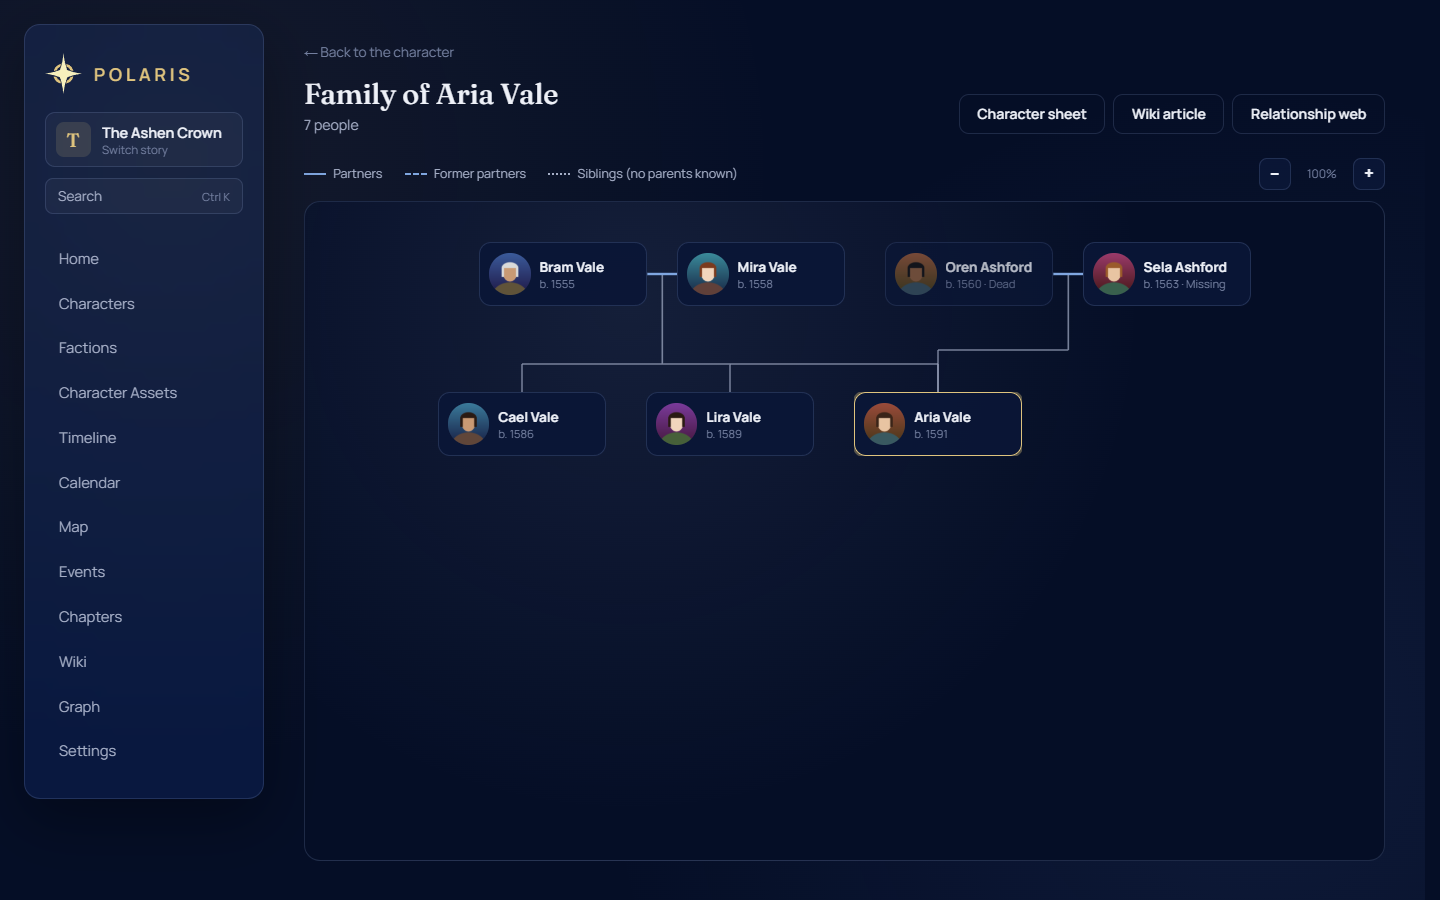
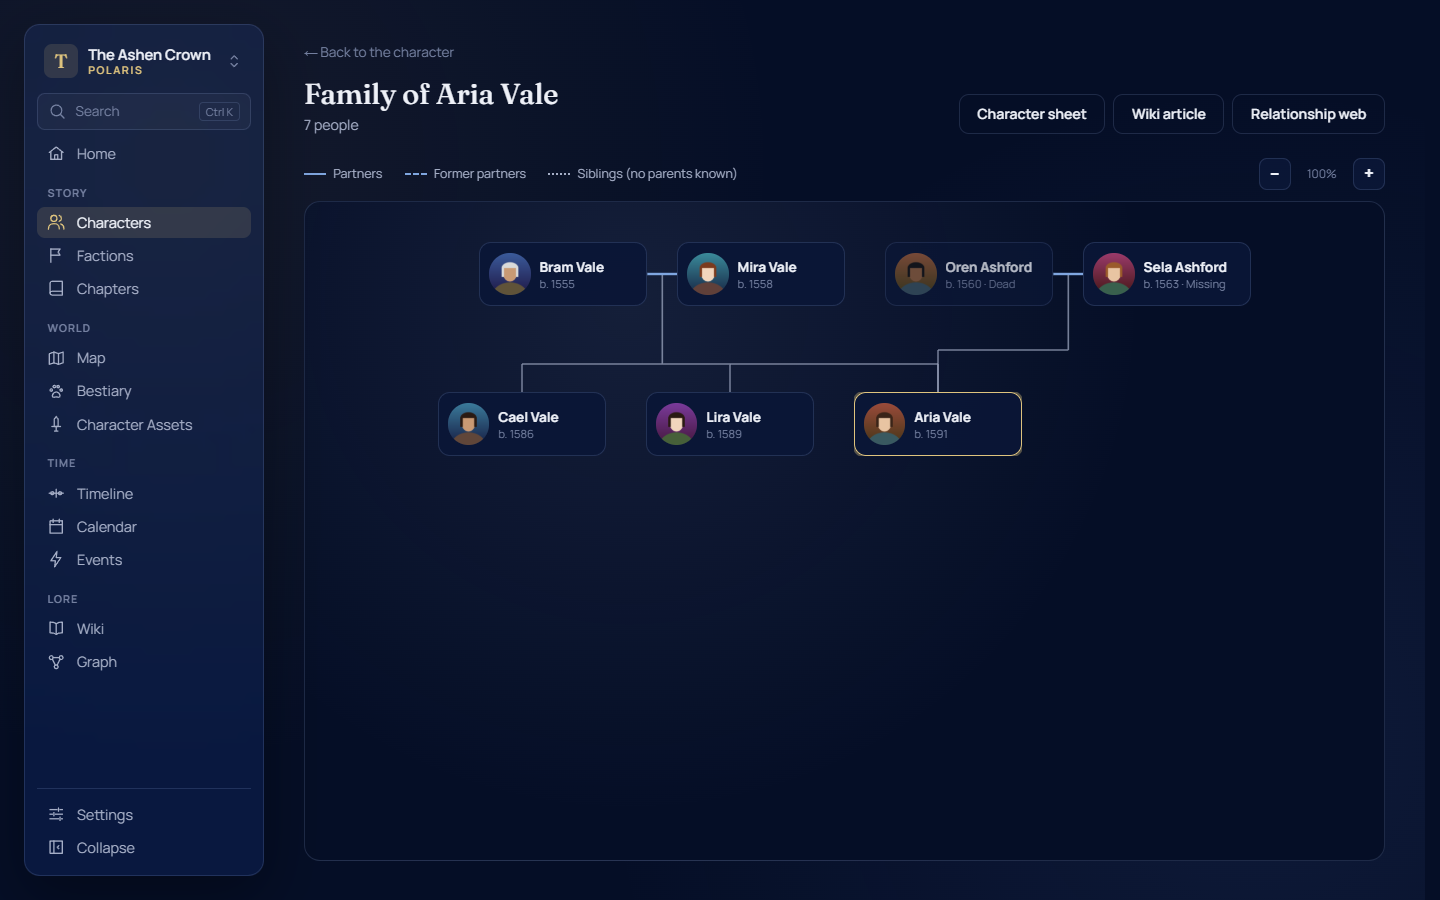
Show the bestiary and the new sidebar in the README
- The feature list describes the bestiary, creature territories and
  editable stats.
- Every screenshot is retaken with the current interface, plus two new
  ones: a creature's article with its territory, and Settings → Stats.
- The demo story now has a small bestiary, and the screenshot script takes
  the two new shots.

diff --git a/scripts/screenshots/seed-demo.js b/scripts/screenshots/seed-demo.js
@@ -222,5 +222,23 @@
   for (const h of [10, 200, 30]) gallery.append('pictures', await landscape(h))
   await post(`/wiki/location/${kingdoms.Aldoria}/gallery`, gallery)
 
-  return { story: story.id, ids: { people, kingdoms, places, chapters, versions, later: later.id } }
+  // The bestiary: creatures native to the kingdoms (their territory is the
+  // kingdom's area), two of them related.
+  const creature = (o) => post('/creatures', form(o))
+  const wolf = await creature({
+    name: 'Ash Wolf', kind: 'animal', level_min: '5', level_max: '12', region_id: String(kingdoms.Aldoria),
+    description: 'Grey-furred pack hunters of the chalk hills, drawn to old fires.', picture: await landscape(28, false),
+  })
+  const golem = await creature({
+    name: 'Cinder Golem', kind: 'construct', level_min: '20', level_max: '20', region_id: String(kingdoms.Eastmarch),
+    description: 'A walking kiln left over from the war, still guarding roads nobody uses.', related: JSON.stringify([wolf.id]),
+  })
+  await creature({ name: 'Mire Wraith', kind: 'monster', level_min: '14', level_max: '22', region_id: String(kingdoms.Velmar), description: 'A drowned voice that leads travellers off the causeways.' })
+  await creature({ name: 'Salt Drake', kind: 'monster', level_min: '30', region_id: String(kingdoms.Saltmere), description: 'Nests in the sea cliffs; sailors pay it in silver.', related: JSON.stringify([golem.id]) })
+  await wput('creature', wolf.id, {
+    summary: 'The **Ash Wolf** hunts the hills of [[Aldoria]] in packs of five or six, and follows smoke the way other wolves follow blood.',
+    fields: { behavior: 'Wary of people, bold around fire. A pack will circle a campfire for a whole night without coming closer.', habitat: 'Chalk hills and the burnt edges of the old forest.' },
+  })
+
+  return { story: story.id, ids: { people, kingdoms, places, chapters, versions, later: later.id, wolf: wolf.id } }
 })()

diff --git a/README.md b/README.md
@@ -23,8 +23,15 @@ has its own SQLite database, so it runs comfortably on a small home server.
   relations of its own time. Family trees are drawn from them. Factions have
   ranks and can nest, and every kingdom on the map is a faction too.
 - **World**: a paintable hex map of kingdoms, regions, cities and capitals,
-  a bestiary of the monsters, animals and constructs that live there, and
-  Character Assets (classes, races, gear, spells…) that grant stat bonuses.
+  and Character Assets (classes, races, gear, spells…) that grant stat
+  bonuses. Races and specializations can be native to a kingdom.
+- **Bestiary**: the monsters, animals and constructs of your world, each
+  with a level range, the place it's native to, a description, a picture and
+  related creatures. A creature's territory follows its place's area, or you
+  paint it hex by hex, and its wiki article shows it as a picture of the map.
+- **Stats your way**: which stats characters have and how each is
+  calculated is up to each story, edited in Settings with formulas built
+  from blocks (see [Stats](#stats)).
 - **Time**: your own calendar (months and days), events tied to places,
   people and chapters, a timeline drawn to scale, a month-by-month calendar
   view, and chapters grouped into volumes.
@@ -47,6 +54,7 @@ Made with a demo story of invented data.
 | ![A character's wiki article](docs/screenshots/wiki.png) **Wiki**: an article built from the story, with your text, version tabs and a grouped infobox. | ![The graph of the wiki](docs/screenshots/graph.png) **Graph**: every article and connection; hovering a dot lights up its neighbours. |
 | ![A family tree](docs/screenshots/family.png) **Family tree**: born to one couple, adopted by another. | ![The timeline](docs/screenshots/timeline.png) **Timeline**: one character's life, long gaps coiled up. |
 | ![The hex map](docs/screenshots/map.png) **Map**: kingdoms, regions, cities and capitals. | ![A character sheet](docs/screenshots/character.png) **Character sheet**: stats computed from class, race and gear. |
+| ![A creature's wiki article](docs/screenshots/bestiary.png) **Bestiary**: a creature's article, with its territory drawn on the map's hexes. | ![The stats settings](docs/screenshots/stats.png) **Stats**: every stat's formula, built from blocks. |
 
 ## Security
 

diff --git a/scripts/screenshots/README.md b/scripts/screenshots/README.md
@@ -6,10 +6,11 @@ data ("The Ashen Crown"). Needs Node 24+ and Edge or Chrome; no packages.
 - `seed-demo.js` builds the demo story through the API (it runs inside the
   page, so it can draw the pictures on a canvas): a map with four kingdoms,
   ten characters with versions, relations and an adoption, factions, events,
-  chapters, lore and wiki text.
+  chapters, lore, a bestiary and wiki text.
 - `shoot.mjs` starts a headless browser, runs the seed and saves
-  `wiki.png`, `graph.png`, `family.png`, `timeline.png`, `map.png` and
-  `character.png` (1440 wide). Edit it to add or change shots.
+  `wiki.png`, `graph.png`, `family.png`, `timeline.png`, `map.png`,
+  `character.png`, `bestiary.png` and `stats.png` (1440 wide). Edit it to
+  add or change shots.
 
 Run it against a fresh server with throwaway folders, never your real data
 (it adds a story wherever it points):
